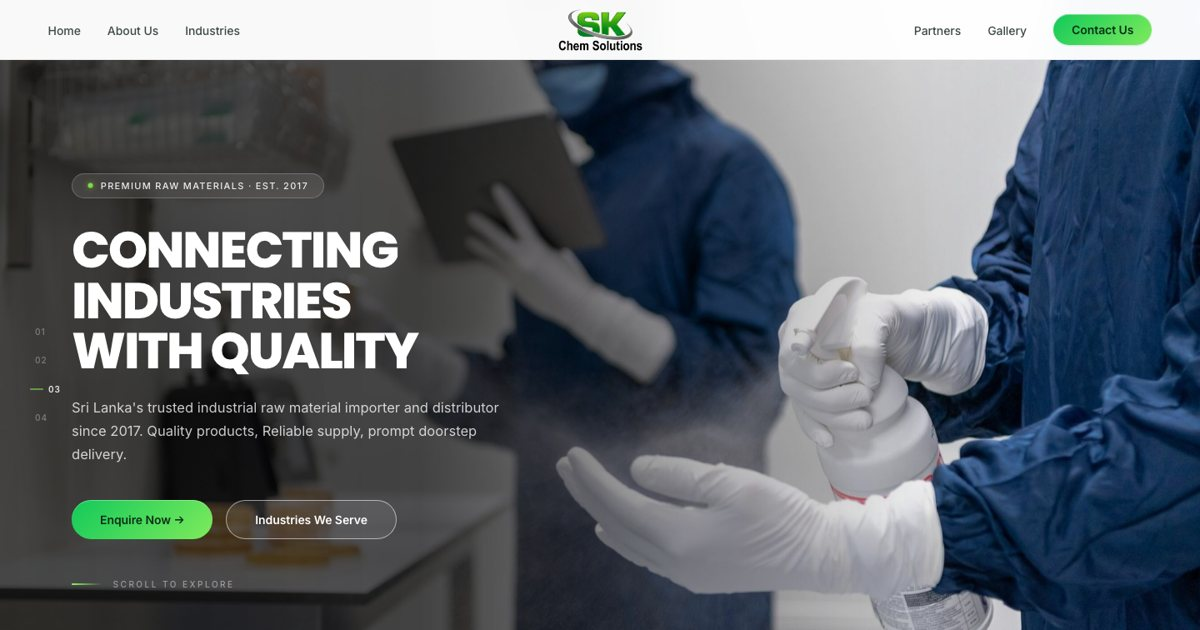
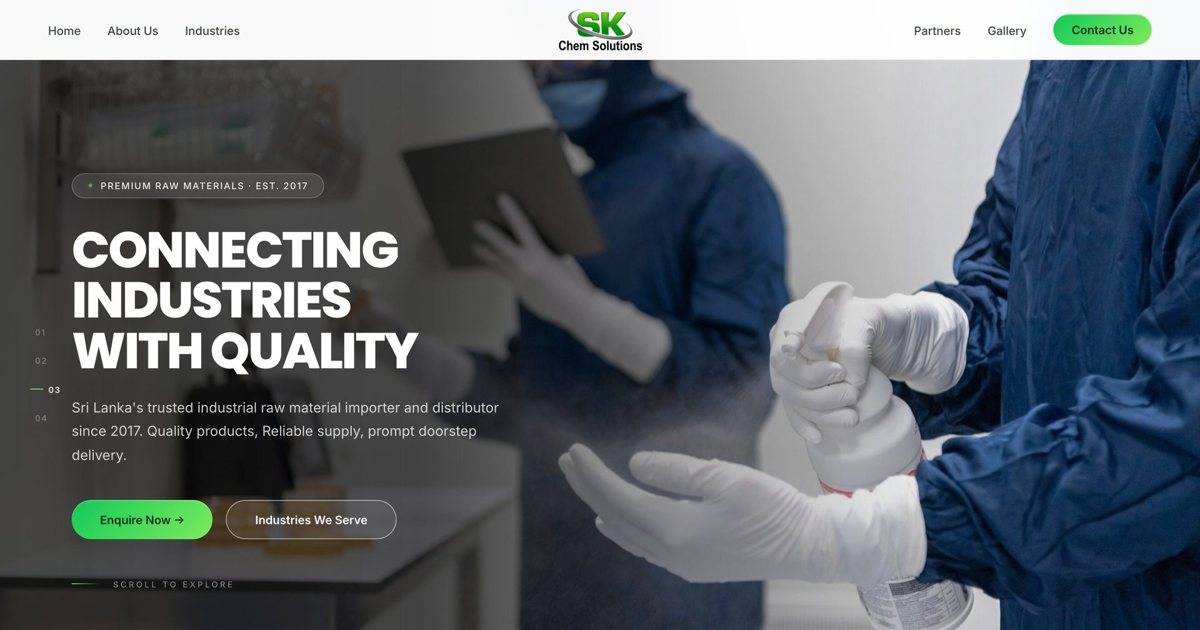
SK Chem project: sharp section screenshots in browser/phone frames

diff --git a/project-sk-chem.html b/project-sk-chem.html
@@ -64,9 +64,6 @@
   .meta-value { font-size: 14px; color: var(--cream); }
   .project-main-img { padding: 60px; background: var(--dark); border-top: 1px solid var(--border); border-bottom: 1px solid var(--border); }
   .project-main-img img { width: 100%; max-width: 1000px; display: block; margin: 0 auto; border: 1px solid var(--border); box-shadow: 0 40px 100px rgba(0,0,0,0.5); }
-  .project-main-img.shots { display: grid; grid-template-columns: 1fr 1fr; gap: 24px; }
-  .project-main-img.shots img { max-width: none; }
-  @media (max-width: 768px) { .project-main-img.shots { grid-template-columns: 1fr; } }
   .project-content { padding: 100px 60px; max-width: 1200px; margin: 0 auto; }
   .project-grid { display: grid; grid-template-columns: 1fr 2fr; gap: 80px; margin-bottom: 80px; }
   .project-sidebar-title { font-family: 'Cormorant Garamond', serif; font-size: 14px; letter-spacing: 3px; text-transform: uppercase; color: var(--gold); margin-bottom: 20px; }
@@ -119,6 +116,45 @@
     .highlights { grid-template-columns: 1fr; }
     .project-cta { padding: 60px 24px; }
     footer { flex-direction: column; gap: 12px; text-align: center; }
+  }
+  /* SK Chem showcase: browser + phone frames so the real site reads clearly */
+  .browser { border-radius: 18px; overflow: hidden; background: #fff; border: 1px solid rgba(255,236,220,.12); box-shadow: 0 40px 90px rgba(0,0,0,.55); }
+  .browser-bar { display: flex; align-items: center; gap: 7px; padding: 12px 16px; background: #1b1513; border-bottom: 1px solid rgba(255,236,220,.08); }
+  .browser-bar i { width: 11px; height: 11px; border-radius: 50%; background: #3a2e28; }
+  .browser-bar i:nth-child(1) { background: #ff5f57; } .browser-bar i:nth-child(2) { background: #febc2e; } .browser-bar i:nth-child(3) { background: #28c840; }
+  .browser-url { margin-left: 14px; flex: 1; max-width: 420px; padding: 6px 14px; border-radius: 999px; background: rgba(255,255,255,.06); font-size: 12px; color: var(--text-muted); font-family: 'DM Sans', sans-serif; }
+  .browser img { display: block; width: 100%; height: auto; border-radius: 0 !important; border: none !important; }
+  .sk-showcase { padding: 40px 60px 20px; max-width: 1320px; margin: 0 auto; }
+  .sk-showcase .browser { max-width: 1200px; margin: 0 auto; }
+  .sk-inside { padding: 40px 60px 100px; max-width: 1320px; margin: 0 auto; }
+  .sk-inside-head { text-align: center; margin-bottom: 56px; }
+  .sk-grid { display: grid; grid-template-columns: 1fr 1fr; gap: 40px 28px; }
+  .sk-shot { margin: 0; }
+  .sk-shot figcaption { margin-top: 16px; font-family: 'DM Sans', sans-serif; }
+  .sk-shot figcaption b { display: block; font-size: 19px; font-weight: 500; letter-spacing: -.02em; color: #fff; }
+  .sk-shot figcaption span { font-size: 14px; color: var(--text-muted); }
+  .sk-shot .browser { transition: transform .6s cubic-bezier(.16,1,.3,1); }
+  .sk-shot:hover .browser { transform: translateY(-6px); }
+  .sk-mobile { margin: 0 16px; padding: 90px 40px 120px; border-radius: 34px; position: relative; overflow: hidden; isolation: isolate; text-align: center;
+    background: radial-gradient(120% 120% at 75% 20%, #f39a5c 0%, #d46a2f 26%, #9a4019 52%, #4a1a09 80%, #1c0a05 100%); border: 1px solid rgba(255,190,150,.2); }
+  .sk-mobile::after { content: ''; position: absolute; inset: 0; z-index: -1; mix-blend-mode: overlay;
+    background: repeating-linear-gradient(90deg, rgba(0,0,0,.22) 0, rgba(0,0,0,.22) 1px, rgba(255,255,255,0) 1px, rgba(255,220,190,.05) 24px, rgba(255,238,222,.16) 42px, rgba(0,0,0,.14) 46px, rgba(0,0,0,.22) 48px); }
+  .sk-phones { display: flex; justify-content: center; align-items: flex-start; gap: 34px; margin-top: 50px; }
+  .phone { width: 250px; padding: 10px; border-radius: 40px; background: #0d0a09; box-shadow: 0 40px 80px rgba(30,8,0,.55), inset 0 0 0 1px rgba(255,255,255,.12); }
+  .phone img { display: block; width: 100%; border-radius: 30px !important; border: none !important; }
+  .phone:nth-child(2) { transform: translateY(40px); }
+  .sk-mobile .section-label { color: #fff !important; border-color: rgba(255,255,255,.35); background: rgba(255,255,255,.12); }
+  .sk-mobile h2 { color: #fff; margin-top: 22px; }
+  .sk-mobile .ml-split .w > span { background-image: linear-gradient(180deg, #fff, #fff1e6) !important; }
+  .sk-mobile .ml-split em .w > span { background-image: linear-gradient(180deg, #fff6ee, var(--gold-light)) !important; }
+  .project-hero .hero-bg { filter: brightness(.55) !important; }
+  @media (max-width: 900px) {
+    .sk-grid { grid-template-columns: 1fr; }
+    .sk-showcase, .sk-inside { padding-left: 20px; padding-right: 20px; }
+    .sk-phones { gap: 12px; } .phone { width: 31%; padding: 5px; border-radius: 22px; } .phone img { border-radius: 18px !important; }
+    .phone:nth-child(2) { transform: translateY(20px); }
+    .sk-mobile { margin: 0 10px; padding: 60px 16px 70px; border-radius: 24px; }
+    .browser-url { display: none; }
   }
   /* ── MODERN LAYER (shared with homepage: copper frame hero, ribbed glass, glass nav, DM Sans headlines, bento cards) ── */
   :root { --copper: #cf6429; --ember: #ee8a4c; --copper-light: #f0a46e; --card-2: #1b1513; --line: rgba(255,236,220,0.08); --ml-ease: cubic-bezier(.16,1,.3,1); }
@@ -373,8 +409,8 @@
   </div>
 </div>
 
-<div class="project-main-img">
-  <img src="/images/portfolio/SK Chem/hero.jpg" alt="SK Chem Solutions website homepage by NextByt">
+<div class="sk-showcase">
+  <div class="browser"><div class="browser-bar"><i></i><i></i><i></i><span class="browser-url">skchemsolutions.lk</span></div><img src="/images/portfolio/SK Chem/hero.jpg" alt="SK Chem Solutions website homepage by NextByt" width="1920" height="1200"></div>
 </div>
 
 <div class="project-content">
@@ -419,9 +455,29 @@
   </div>
 </div>
 
-<div class="project-main-img shots">
-  <img src="/images/portfolio/SK Chem/about.jpg" alt="SK Chem Solutions about page" loading="lazy">
-  <img src="/images/portfolio/SK Chem/industry.jpg" alt="SK Chem Solutions rubber and latex industry page" loading="lazy">
+<div class="sk-inside">
+  <div class="sk-inside-head">
+    <p class="section-label">&#x2666; A Look Inside</p>
+    <h2 class="section-title">Every section,<br><em>built to convert.</em></h2>
+  </div>
+  <div class="sk-grid">
+    <figure class="sk-shot"><div class="browser"><div class="browser-bar"><i></i><i></i><i></i><span class="browser-url">skchemsolutions.lk</span></div><img src="/images/portfolio/SK Chem/industries.jpg" alt="SK Chem Solutions website: Industries we serve" loading="lazy" width="1920" height="1200"></div><figcaption><b>Industries we serve</b><span>Swipeable cards for every sector, each linking to its own page.</span></figcaption></figure>
+    <figure class="sk-shot"><div class="browser"><div class="browser-bar"><i></i><i></i><i></i><span class="browser-url">skchemsolutions.lk</span></div><img src="/images/portfolio/SK Chem/why.jpg" alt="SK Chem Solutions website: Why choose us" loading="lazy" width="1920" height="1200"></div><figcaption><b>Why choose us</b><span>Three clear reasons buyers trust SK Chem.</span></figcaption></figure>
+    <figure class="sk-shot"><div class="browser"><div class="browser-bar"><i></i><i></i><i></i><span class="browser-url">skchemsolutions.lk</span></div><img src="/images/portfolio/SK Chem/about.jpg" alt="SK Chem Solutions website: About the company" loading="lazy" width="1920" height="1200"></div><figcaption><b>About the company</b><span>Story, values and global sourcing at a glance.</span></figcaption></figure>
+    <figure class="sk-shot"><div class="browser"><div class="browser-bar"><i></i><i></i><i></i><span class="browser-url">skchemsolutions.lk</span></div><img src="/images/portfolio/SK Chem/partners.jpg" alt="SK Chem Solutions website: Trusted partners" loading="lazy" width="1920" height="1200"></div><figcaption><b>Trusted partners</b><span>Global suppliers and local clients, one tap apart.</span></figcaption></figure>
+    <figure class="sk-shot"><div class="browser"><div class="browser-bar"><i></i><i></i><i></i><span class="browser-url">skchemsolutions.lk</span></div><img src="/images/portfolio/SK Chem/gallery.jpg" alt="SK Chem Solutions website: Warehouse &amp; operations" loading="lazy" width="1920" height="1200"></div><figcaption><b>Warehouse &amp; operations</b><span>A filterable photo gallery that shows the real operation.</span></figcaption></figure>
+    <figure class="sk-shot"><div class="browser"><div class="browser-bar"><i></i><i></i><i></i><span class="browser-url">skchemsolutions.lk</span></div><img src="/images/portfolio/SK Chem/csr.jpg" alt="SK Chem Solutions website: Social responsibility" loading="lazy" width="1920" height="1200"></div><figcaption><b>Social responsibility</b><span>Community work presented with a photo slider.</span></figcaption></figure>
+  </div>
+</div>
+
+<div class="sk-mobile">
+  <p class="section-label">&#x2666; Mobile First</p>
+  <h2 class="section-title">Looks sharp on<br><em>every phone.</em></h2>
+  <div class="sk-phones">
+    <div class="phone"><img src="/images/portfolio/SK Chem/m-home.jpg" alt="SK Chem Solutions mobile homepage" loading="lazy"></div>
+    <div class="phone"><img src="/images/portfolio/SK Chem/m-industries.jpg" alt="SK Chem Solutions mobile industries section" loading="lazy"></div>
+    <div class="phone"><img src="/images/portfolio/SK Chem/m-partners.jpg" alt="SK Chem Solutions mobile partners section" loading="lazy"></div>
+  </div>
 </div>
 
 <div class="palette-section">
